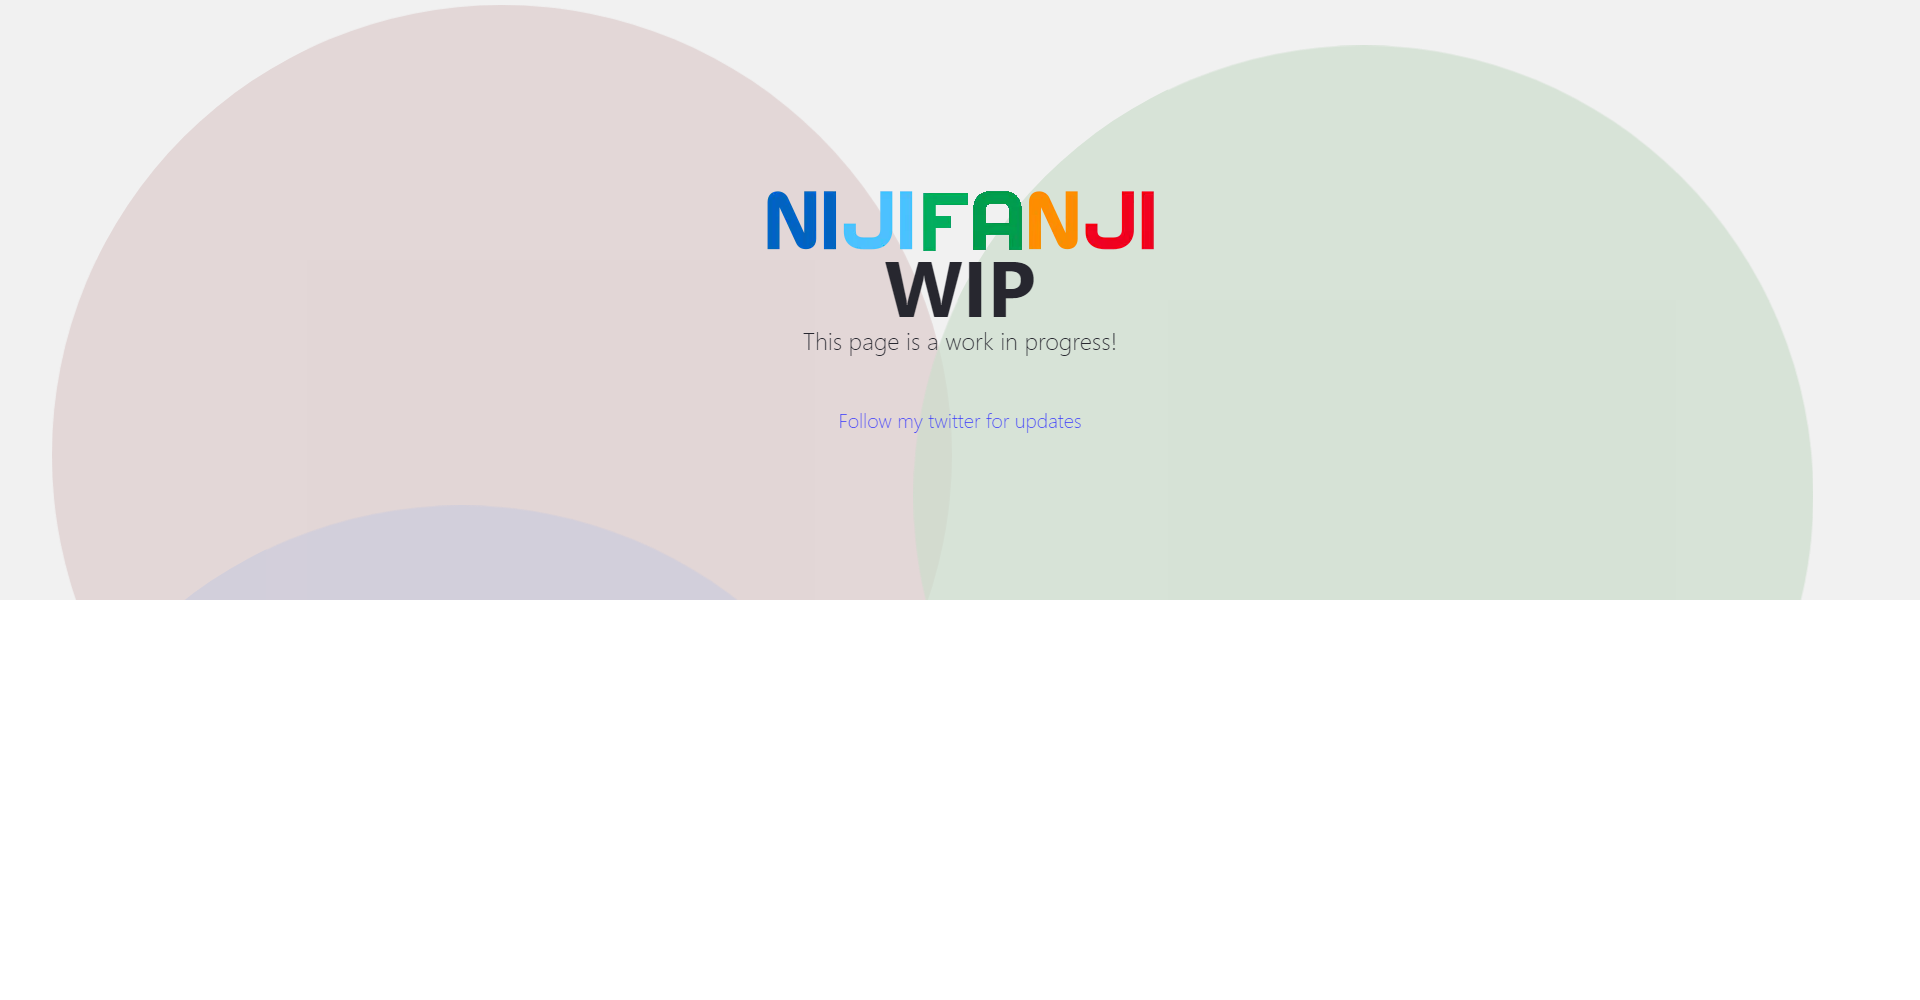
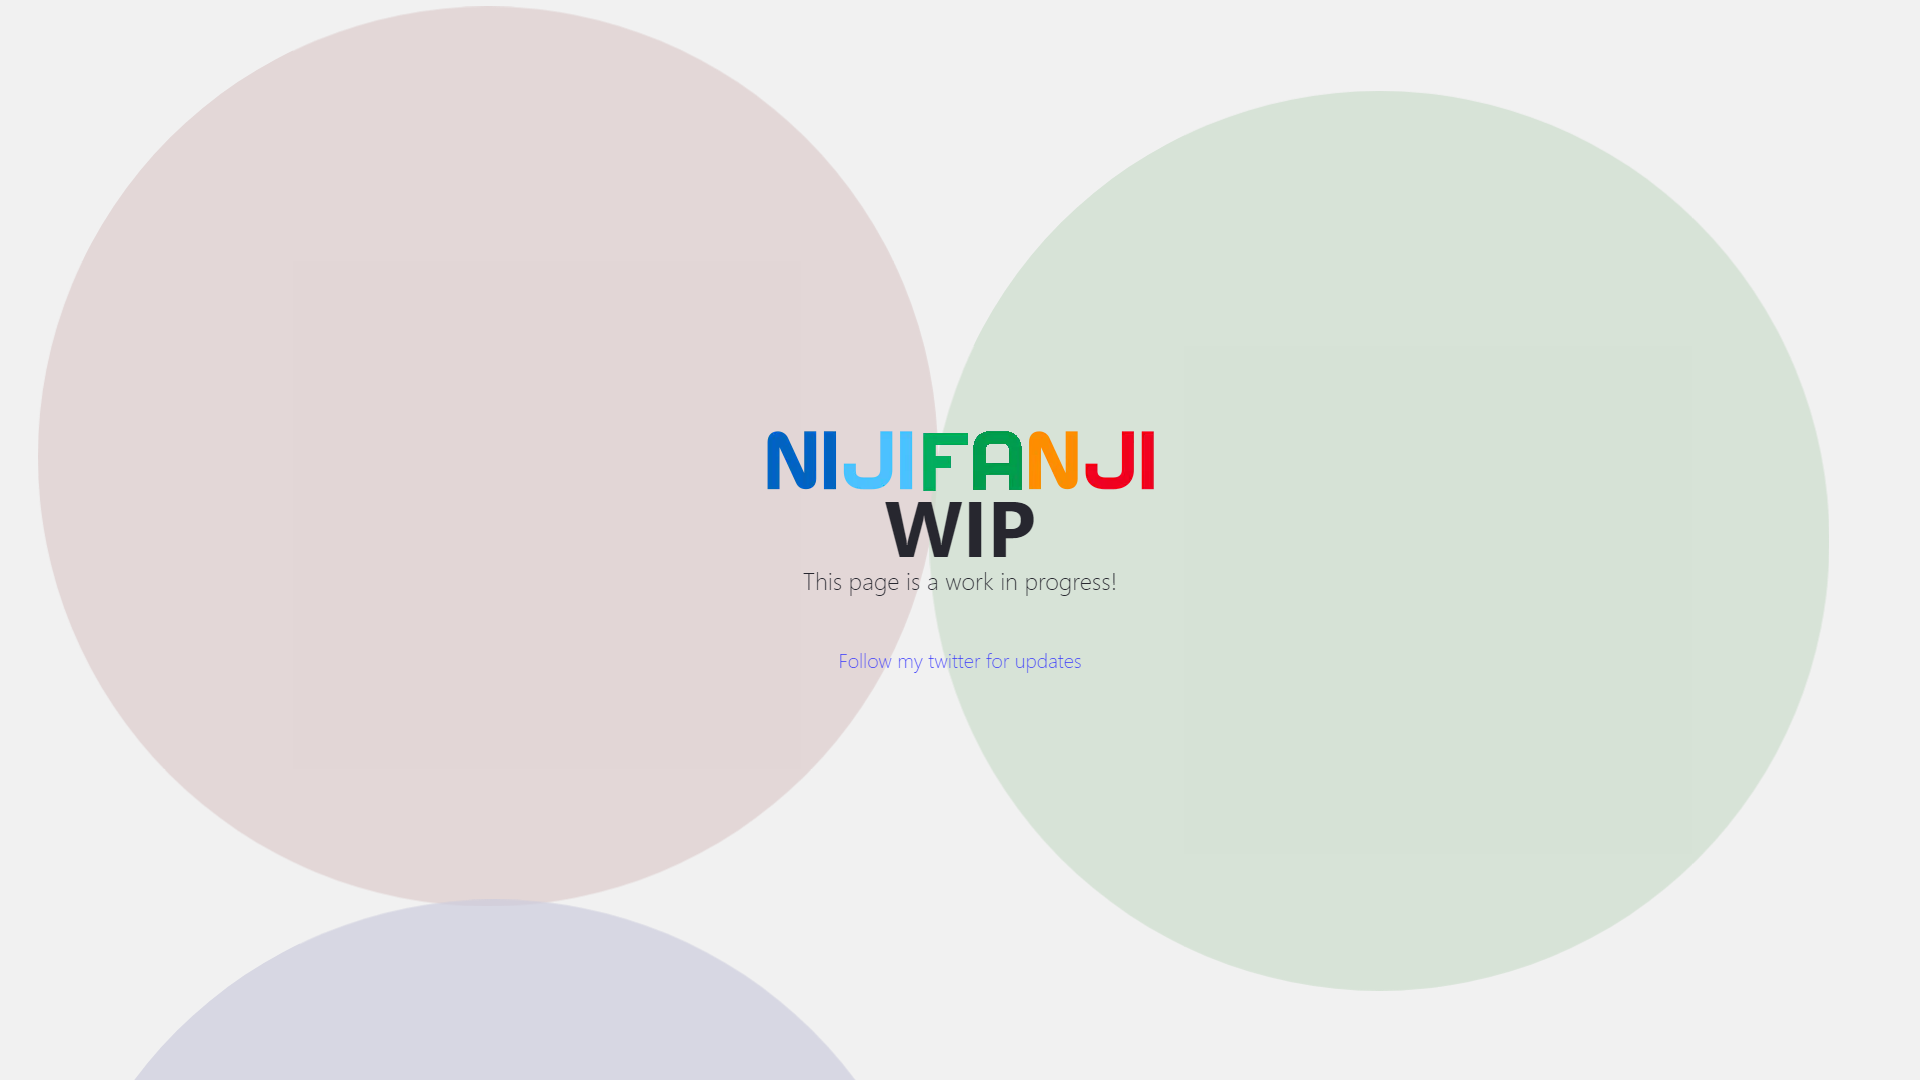
new images, script update

diff --git a/util/imageGen.js b/util/imageGen.js
@@ -16,7 +16,7 @@ const imageGen = async () => {
   try {
     for (let i = 0; i < VIEWABLE_PAGES.length; i++) {
       const page = await browser.newPage();
-      page.setViewport({ width: 1920, height: 600 })
+      page.setViewport({ width: 1920, height: 1080 })
       const url = `http://${process.env.FRONTEND_ENDPOINT}${VIEWABLE_PAGES[i]}`
       console.log('Generating image for', url)
       await page.goto(url, { waitUntil: 'networkidle2', timeout: 0 })
@@ -28,7 +28,7 @@ const imageGen = async () => {
           x: 0,
           y: VIEWABLE_PAGES[i].split('/').length === 3 ? 60 : 0,
           width: 1920,
-          height: VIEWABLE_PAGES[i].split('/').length === 3 ? 600 : 1000,
+          height: 1080,
         }
       })
     }
